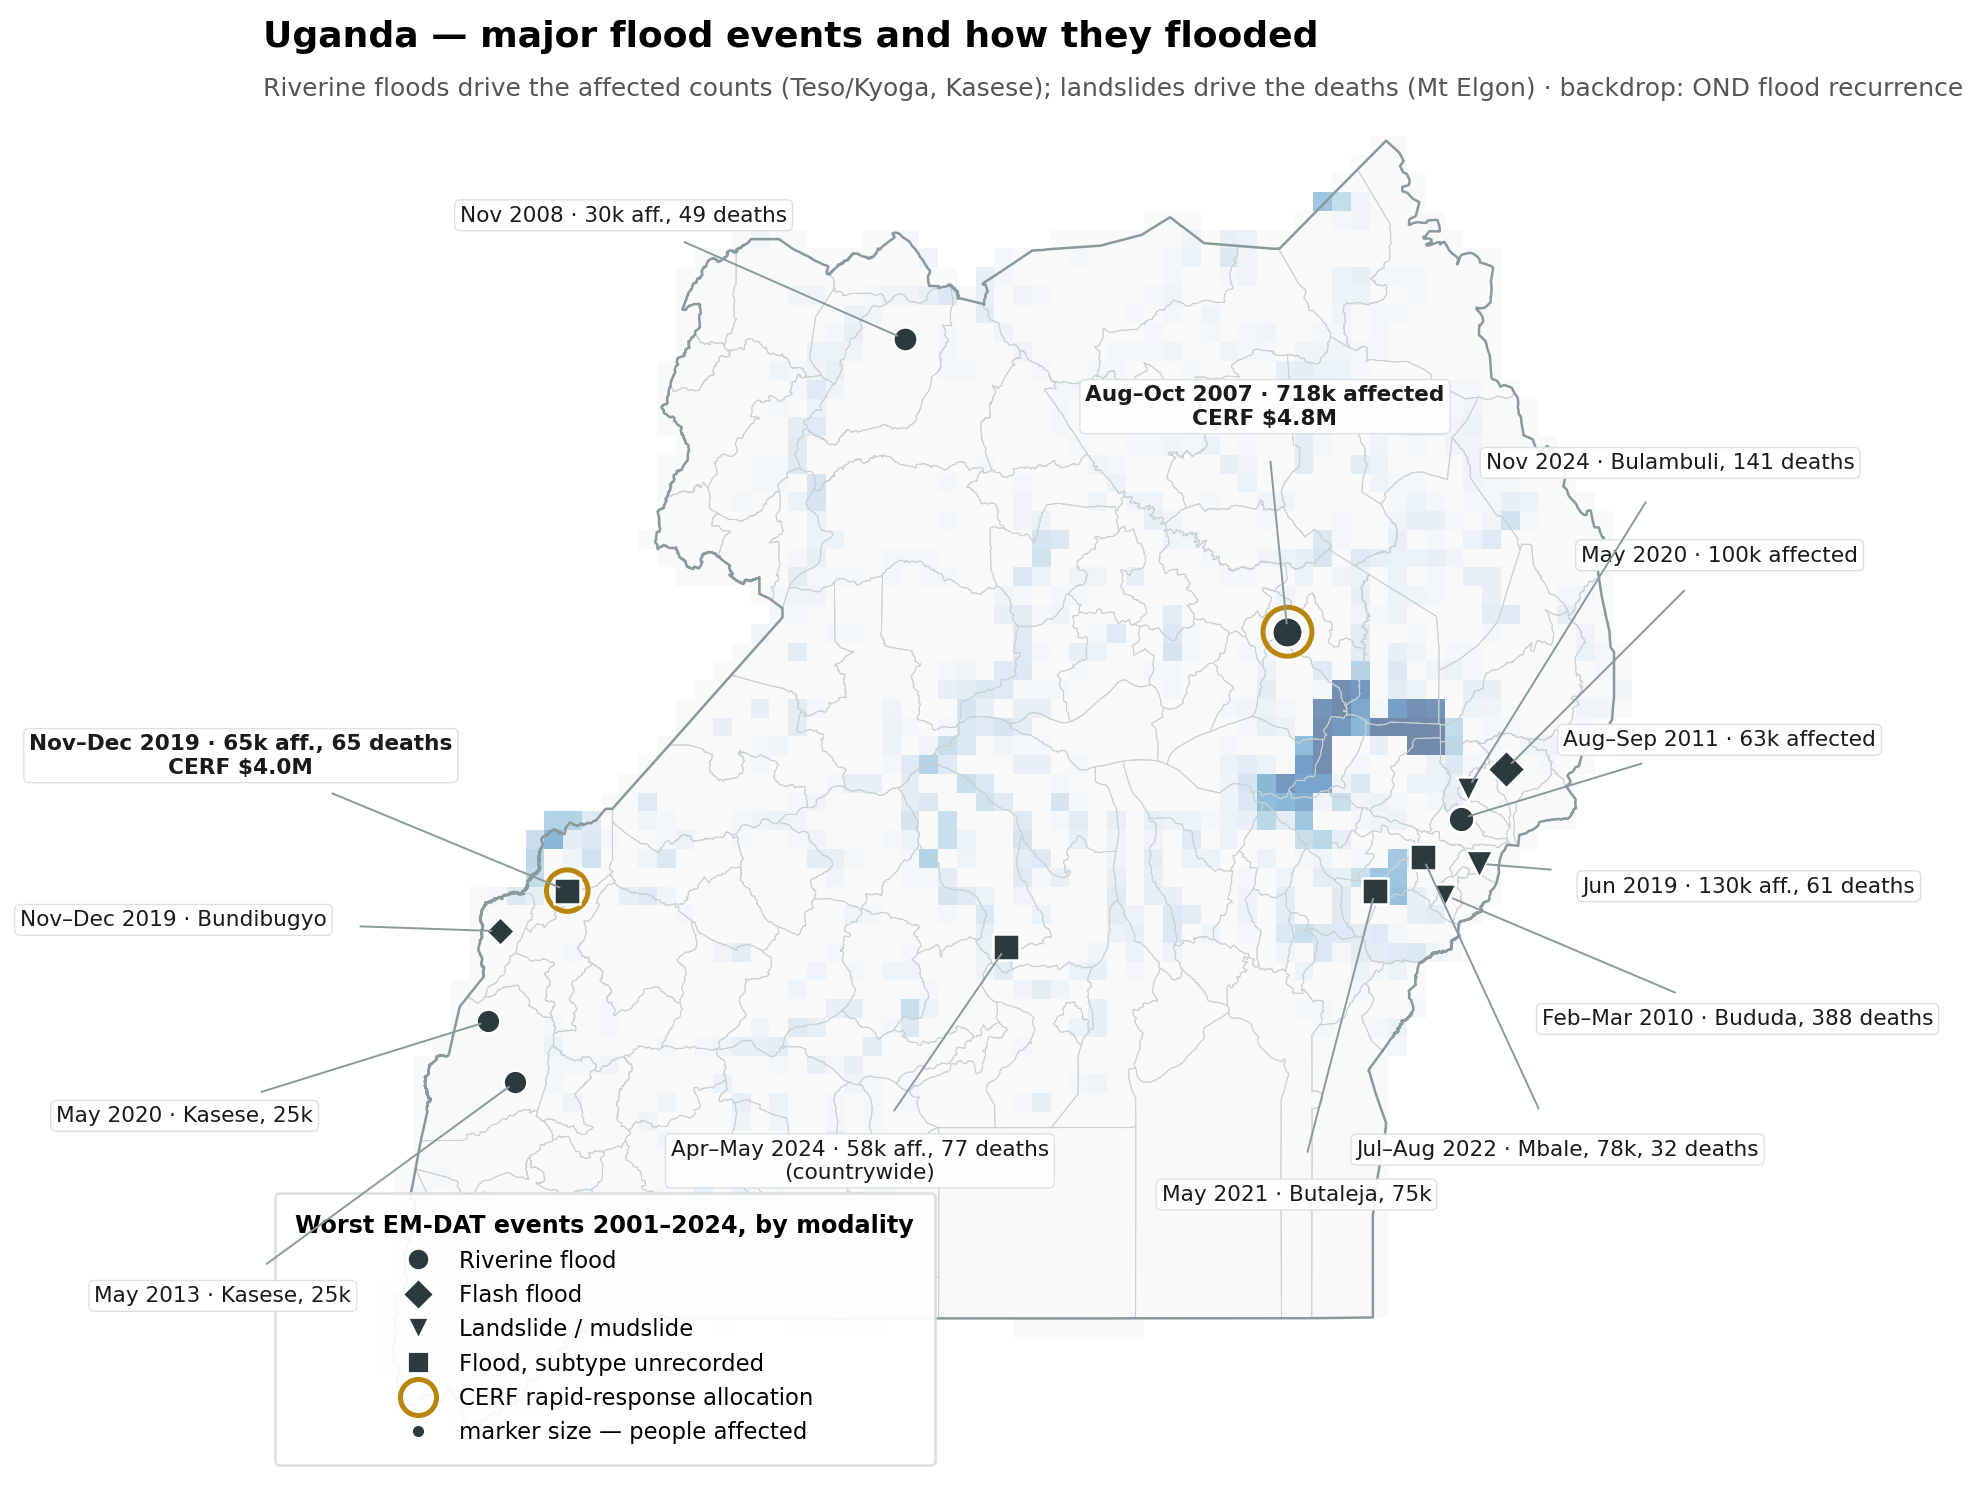
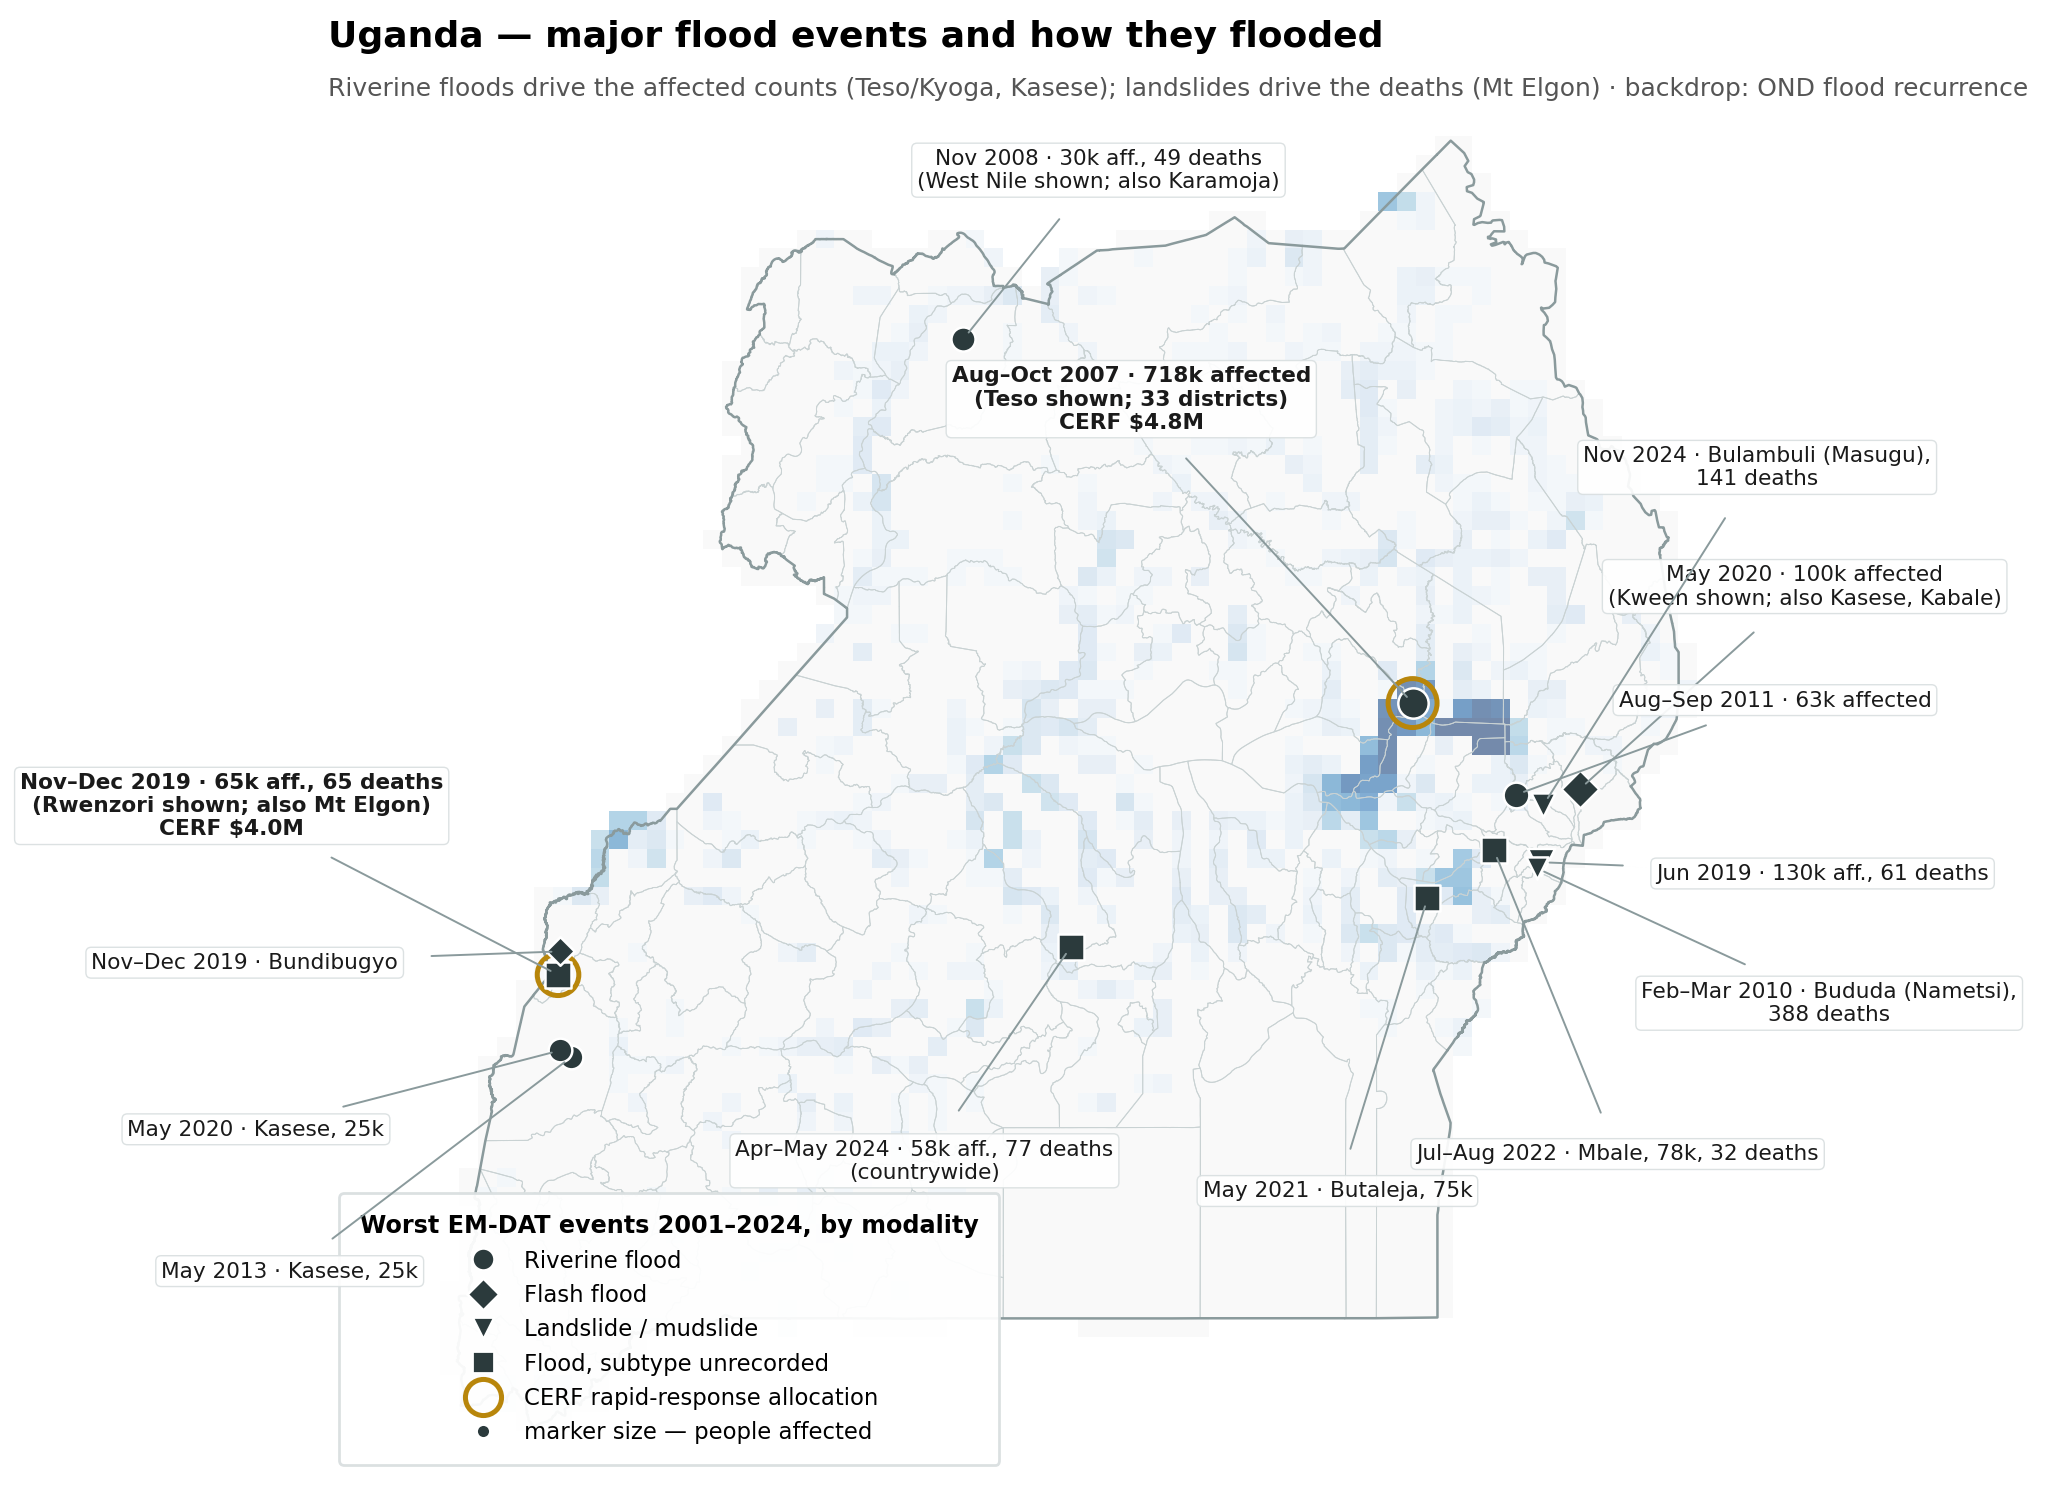
Events map: pin placement from the record, not eyeballed
Pins now anchor to the most precise location EM-DAT supports: named
villages/towns where present (Nametsi 2010, Masugu Nov 2024, the Nyamwamba
at Kilembe/Kasese town, Mbale city, Busaru); otherwise the representative
point of the first-listed worst-hit districts, computed from CODAB with an
assert on name matching. Multi-region events say what the pin shows on the
label. Markers draw big-first so co-located events (Nametsi inside Bududa,
the two Nyamwamba floods) stay visible; 2011 anchored on its first-listed
Bulambuli+Sironko.

diff --git a/pages/uganda-flood-trigger/index.html b/pages/uganda-flood-trigger/index.html
@@ -262,9 +262,14 @@
   <figure>
     <img src="events_map.png" alt="Map of Uganda placing the fourteen worst EM-DAT flood and landslide events 2001–2024, with marker shape showing modality: circles for riverine floods (Teso 2007 with 718,000 affected, Kasese May 2013 and May 2020, West Nile Nov 2008, Elgon foothills Aug–Sep 2011), diamonds for flash floods (Kween/Kasese May 2020 with 100,000 affected, Bundibugyo Nov–Dec 2019), triangles for landslides (Bududa 2010 with 388 deaths, Jun 2019 with 61 deaths, Bulambuli Nov 2024 with 141 deaths), and squares for floods with unrecorded subtype (Mbale Jul–Aug 2022, Butaleja May 2021, Rwenzori Nov–Dec 2019, countrywide Apr–May 2024). Gold rings mark the two CERF rapid-response allocations: the Aug–Oct 2007 Teso floods ($4.8M) and the Nov–Dec 2019 floods ($4.0M). The backdrop shows OND flood recurrence." width="2012" height="1496" loading="lazy">
     <figcaption><strong>Major events and their modality.</strong> The worst events in
-      EM-DAT's Uganda flood/landslide record (2001–2024), placed where the record's
-      named districts sit, shaped by EM-DAT's subtype (marker size = people
-      affected) over the same OND-recurrence backdrop as the map above. Gold rings:
+      EM-DAT's Uganda flood/landslide record (2001–2024), shaped by EM-DAT's subtype
+      (marker size = people affected) over the same OND-recurrence backdrop as the
+      map above. Pins sit at the most precise location the record supports: the named
+      village or town where there is one (Nametsi for the 2010 landslide, Masugu for
+      Nov 2024, the Nyamwamba through Kilembe/Kasese town, Mbale city, Busaru in
+      Bundibugyo), otherwise the first-listed — worst-hit — districts in the event's
+      Location field (computed from CODAB); events spanning further than their pin
+      say so on the label. Gold rings:
       the two CERF rapid-response allocations for floods — Oct 2007 (~$4.8M, Teso
       riverine) and Jan 2020 (~$4.0M, for the Nov–Dec 2019 Rwenzori/Elgon floods and
       landslides). The modality split is the design argument for two windows: the

diff --git a/analysis/uga_flood_events_map.py b/analysis/uga_flood_events_map.py
@@ -33,27 +33,53 @@ UGA_DIR = f"{PROJECT_PREFIX}/processed/uga"
 OUT = Path(__file__).resolve().parent.parent / "pages/uganda-flood-trigger/events_map.png"
 
 # The events: worst of EM-DAT's 47 flood + wet mass-movement records for UGA,
-# by affected or deaths. label = what the map prints; place = manual (lon, lat)
-# for region-level records, else centroid of the districts EM-DAT names.
+# by affected or deaths. Pin placement, most precise available per event:
+#   ("point", lon, lat)  — the record names a village/town with known
+#                          coordinates (comment says which);
+#   ["District", ...]    — representative point of the union of the FIRST-listed
+#                          (worst-hit) districts in EM-DAT's Location field,
+#                          computed from CODAB; scattered multi-region events
+#                          anchor on that lead cluster, flagged in the label.
 MODALITY = {"Riverine flood": "riverine", "Flash flood": "flash",
             "Landslide (wet)": "landslide", "Mudslide": "landslide",
             "Flood (General)": "unspecified"}
 EVENTS = [
-    # disno, label, cerf ($ text or None), manual place or None, label offset
-    ("2007-0408-UGA", "Aug–Oct 2007 · 718k affected", "CERF $4.8M", (33.55, 2.05), (-0.1, 1.0)),
-    ("2019-0625-UGA", "Nov–Dec 2019 · 65k aff., 65 deaths", "CERF $4.0M", (30.35, 0.90), (-1.45, 0.60)),
-    ("2019-0599-UGA", "Nov–Dec 2019 · Bundibugyo", None, (30.05, 0.72), (-1.45, 0.05)),
-    ("2020-0182-UGA", "May 2020 · 100k affected", None, (34.52, 1.44), (0.95, 0.95)),
-    ("2020-0213-UGA", "May 2020 · Kasese, 25k", None, (30.00, 0.32), (-1.35, -0.42)),
-    ("2013-0197-UGA", "May 2013 · Kasese, 25k", None, (30.12, 0.05), (-1.30, -0.95)),
-    ("2011-0376-UGA", "Aug–Sep 2011 · 63k affected", None, (34.32, 1.22), (1.15, 0.35)),
-    ("2008-0527-UGA", "Nov 2008 · 30k aff., 49 deaths", None, (31.85, 3.35), (-1.25, 0.55)),
-    ("2010-0084-UGA", "Feb–Mar 2010 · Bududa, 388 deaths", None, (34.25, 0.88), (1.30, -0.55)),
-    ("2019-0227-UGA", "Jun 2019 · 130k aff., 61 deaths", None, (34.40, 1.02), (1.20, -0.10)),
-    ("2024-0883-UGA", "Nov 2024 · Bulambuli, 141 deaths", None, (34.35, 1.35), (0.90, 1.45)),
-    ("2022-0481-UGA", "Jul–Aug 2022 · Mbale, 78k, 32 deaths", None, (34.15, 1.05), (0.60, -1.30)),
-    ("2021-0240-UGA", "May 2021 · Butaleja, 75k", None, (33.94, 0.90), (-0.35, -1.35)),
-    ("2024-0231-UGA", "Apr–May 2024 · 58k aff., 77 deaths\n(countrywide)", None, (32.30, 0.65), (-0.65, -0.95)),
+    # disno, label, cerf ($ text or None), anchor, label offset
+    # Teso first-listed (Amuria, Bukedea, Kaberamaido, Katakwi, Kumi, Soroti);
+    # the record spans 33 districts to the north and east.
+    ("2007-0408-UGA", "Aug–Oct 2007 · 718k affected\n(Teso shown; 33 districts)", "CERF $4.8M",
+     ["Amuria", "Bukedea", "Kaberamaido", "Katakwi", "Kumi", "Soroti"], (-1.25, 1.35)),
+    # Region-level record ("Rwenzori sub-region, Mount-Elgon sub-region"):
+    # anchored on the Rwenzori cluster, Elgon noted in the label.
+    ("2019-0625-UGA", "Nov–Dec 2019 · 65k aff., 65 deaths\n(Rwenzori shown; also Mt Elgon)", "CERF $4.0M",
+     ["Kasese", "Bundibugyo", "Ntoroko"], (-1.45, 0.75)),
+    # Busaru & Harugale sub-counties, southern Bundibugyo (~0.63N 30.03E).
+    ("2019-0599-UGA", "Nov–Dec 2019 · Bundibugyo", None, ("point", 30.03, 0.63), (-1.40, -0.05)),
+    # Kween first-listed ("Girigiri lower plains"); also Kasese, Kabale.
+    ("2020-0182-UGA", "May 2020 · 100k affected\n(Kween shown; also Kasese, Kabale)", None,
+     ["Kween"], (1.00, 0.90)),
+    # Nyamwamba river through Kilembe / Kasese town (~0.19N 30.03E).
+    ("2020-0213-UGA", "May 2020 · Kasese, 25k", None, ("point", 30.03, 0.19), (-1.35, -0.35)),
+    ("2013-0197-UGA", "May 2013 · Kasese, 25k", None, ("point", 30.08, 0.16), (-1.25, -0.95)),
+    # Bulambuli & Sironko first-listed (Elgon foothills; Kween/Mbale follow).
+    ("2011-0376-UGA", "Aug–Sep 2011 · 63k affected", None,
+     ["Bulambuli", "Sironko"], (1.15, 0.42)),
+    # Adjumani & Moyo first-listed; the record also spans Karamoja.
+    ("2008-0527-UGA", "Nov 2008 · 30k aff., 49 deaths\n(West Nile shown; also Karamoja)", None,
+     ["Adjumani", "Moyo"], (0.60, 0.75)),
+    # Nametsi village, Bududa (the 2010 landslide site, ~1.00N 34.37E).
+    ("2010-0084-UGA", "Feb–Mar 2010 · Bududa (Nametsi),\n388 deaths", None,
+     ("point", 34.37, 1.00), (1.30, -0.60)),
+    ("2019-0227-UGA", "Jun 2019 · 130k aff., 61 deaths", None, ["Bududa"], (1.25, -0.05)),
+    # Masugu village, Buluganya sub-county, eastern Bulambuli (~1.28N 34.40E).
+    ("2024-0883-UGA", "Nov 2024 · Bulambuli (Masugu),\n141 deaths", None,
+     ("point", 34.40, 1.28), (0.95, 1.50)),
+    # Nabuyonga burst through Mbale city (~1.08N 34.18E).
+    ("2022-0481-UGA", "Jul–Aug 2022 · Mbale, 78k, 32 deaths", None,
+     ("point", 34.18, 1.08), (0.55, -1.35)),
+    ("2021-0240-UGA", "May 2021 · Butaleja, 75k", None, ["Butaleja"], (-0.40, -1.30)),
+    ("2024-0231-UGA", "Apr–May 2024 · 58k aff., 77 deaths\n(countrywide)", None,
+     ("point", 32.30, 0.65), (-0.65, -0.95)),
 ]
 MARKER = {"riverine": "o", "flash": "D", "landslide": "v", "unspecified": "s"}
 MNAME = {"riverine": "Riverine flood", "flash": "Flash flood",
@@ -85,11 +111,21 @@ def main() -> None:
     cod2.boundary.plot(ax=ax, color="#c9d2d3", linewidth=0.35, zorder=3)
     cod2.dissolve().boundary.plot(ax=ax, color="#8a9a9c", linewidth=0.9, zorder=4)
 
-    for disno, label, cerf, place, (dx, dy) in EVENTS:
+    placed = []
+    for disno, label, cerf, anchor, (dx, dy) in EVENTS:
         row = em.loc[disno]
         mod = MODALITY[row["Disaster Subtype"]]
-        x, y = place
-        s = size_for(row["Total Affected"])
+        if isinstance(anchor, tuple) and anchor[0] == "point":
+            x, y = anchor[1], anchor[2]
+        else:
+            sel = cod2[cod2["ADM2_EN"].isin(anchor)]
+            assert len(sel) == len(anchor), f"{disno}: unmatched districts {set(anchor) - set(sel['ADM2_EN'])}"
+            x, y = sel.union_all().representative_point().coords[0]
+        placed.append((size_for(row["Total Affected"]), x, y, mod, label, cerf, dx, dy))
+
+    # Big markers first so co-located small ones (Nametsi inside Bududa, the
+    # two Kasese/Nyamwamba events) stay visible on top.
+    for s, x, y, mod, label, cerf, dx, dy in sorted(placed, key=lambda t: -t[0]):
         if cerf:
             ax.scatter(x, y, s=s * 2.6, marker="o", facecolor="none",
                        edgecolor="#b8860b", linewidth=1.8, zorder=6)
